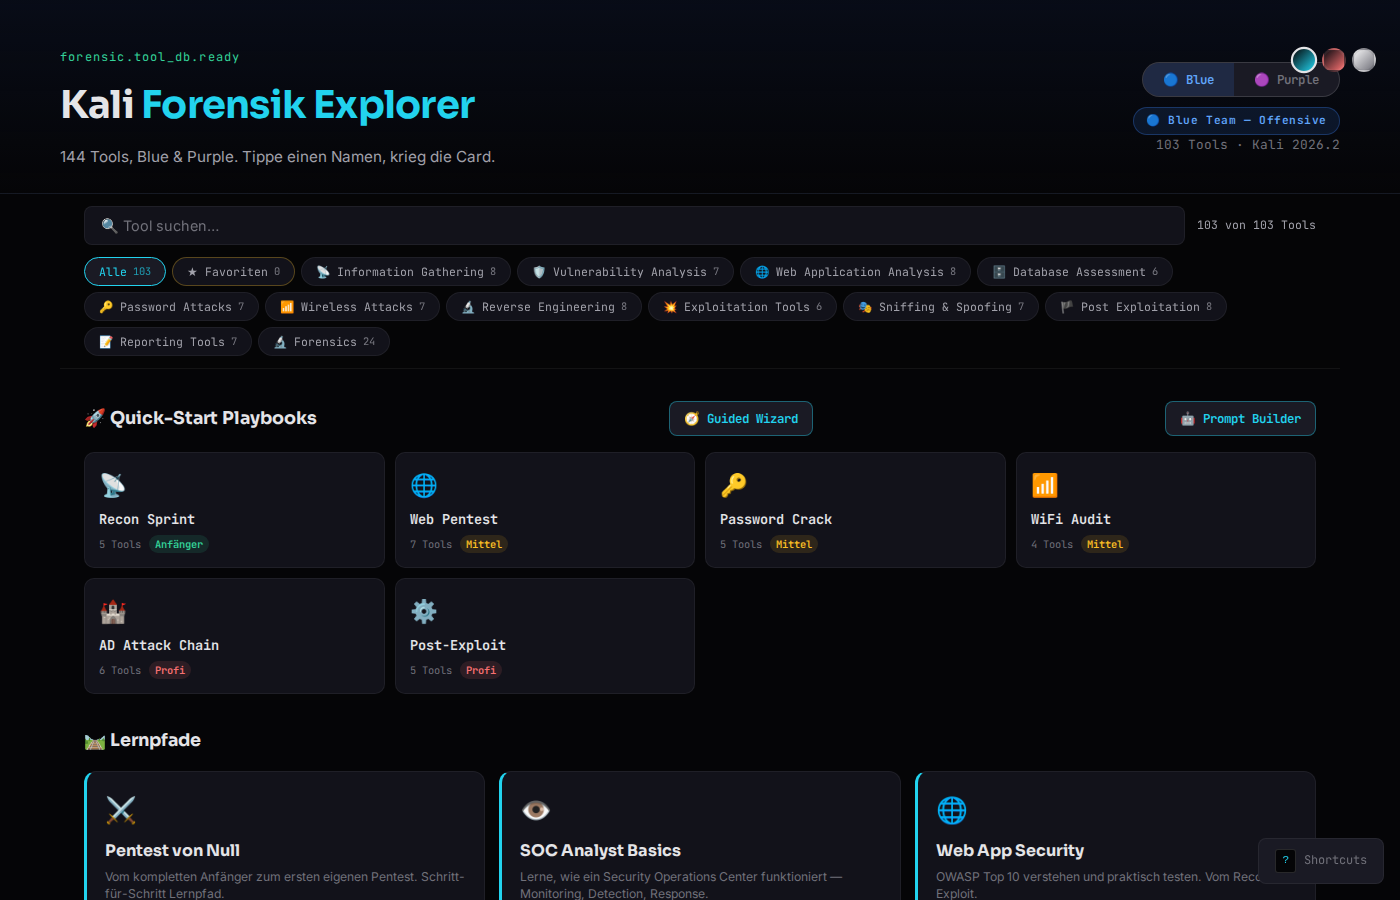
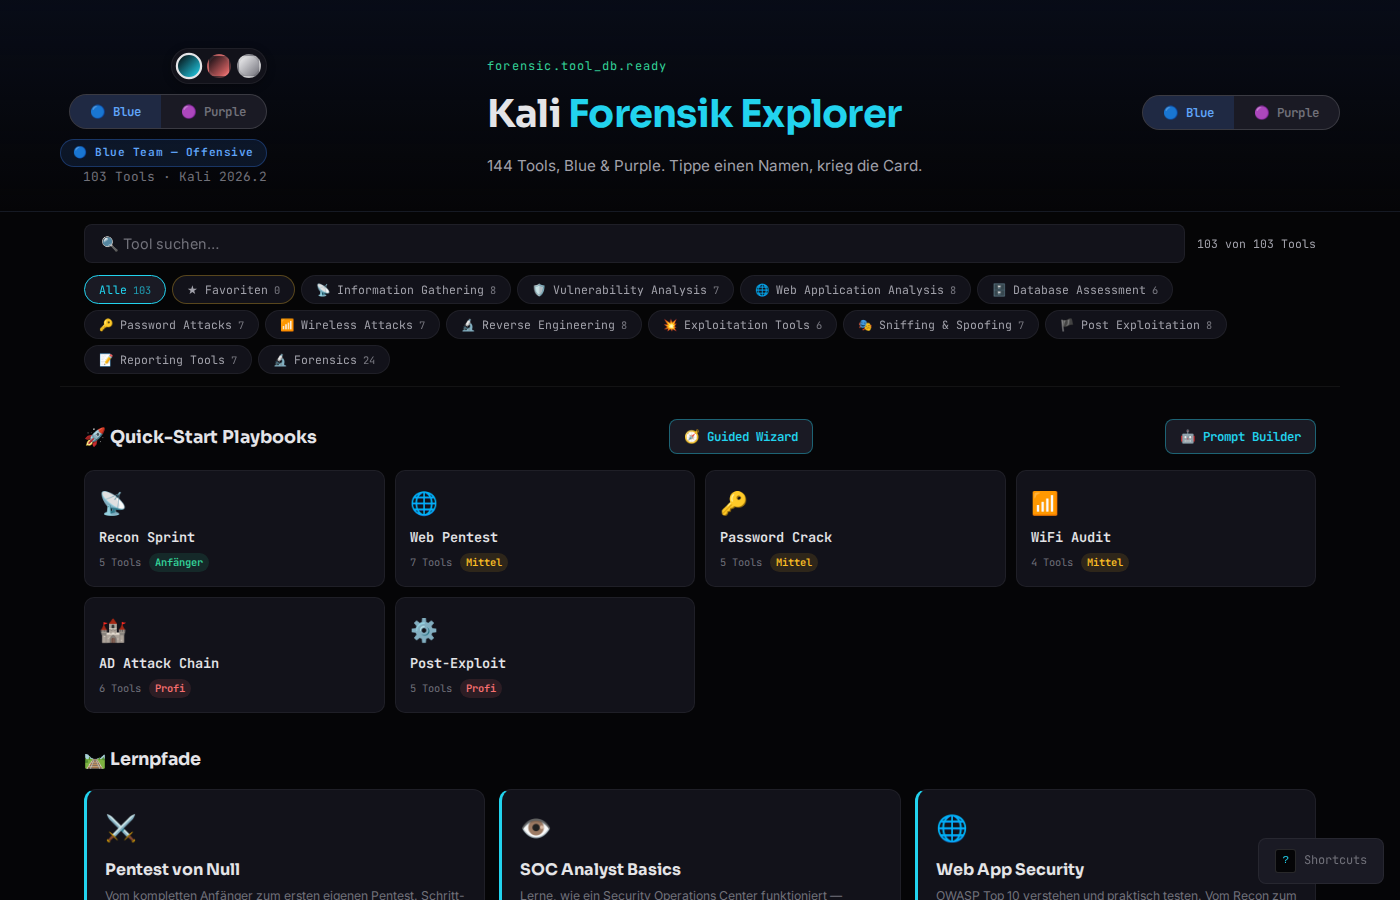
fix(ui): resolve theme-toggle and mode-switch overlap in header
Previously .theme-toggle was position:absolute top:48px right:24px which
overlapped with the .mode-switch in the same corner.

Fix: Moved .theme-toggle into the flex column on the right side, removed
absolute positioning, added visible background pill + shadow for clarity.

Now layout:
- Theme toggle: top-left
- Mode-switch + stats: top-right
- No overlap

diff --git a/forensik-explorer.html b/forensik-explorer.html
@@ -34,6 +34,7 @@
     h1{font-family:var(--font-display);font-size:clamp(1.6rem,4vw,2.4rem);font-weight:700;letter-spacing:-.02em;margin-bottom:8px}
     h1 .accent{color:var(--accent-cyan)}
     .subtitle{color:var(--text-secondary);font-size:.95rem}
+    .header-controls{display:flex;flex-direction:column;align-items:flex-end;gap:10px}
     .header-stats{font-family:var(--font-mono);font-size:.8rem;color:var(--text-muted);text-align:right}
     .filter-bar{position:sticky;top:0;z-index:50;max-width:1280px;margin:0 auto;padding:12px 24px;background:rgba(5,5,7,.92);-webkit-backdrop-filter:blur(20px);backdrop-filter:blur(20px);border-bottom:1px solid var(--border);display:flex;gap:12px;align-items:center;flex-wrap:wrap}
     .filter-search{flex:1;min-width:200px;padding:10px 16px;background:var(--bg-surface);border:1px solid var(--border);border-radius:8px;color:var(--text-primary);font-size:.9rem;font-family:var(--font-body);outline:none;transition:border-color .2s}
@@ -321,7 +322,7 @@
 .cmdbuilder-hint{font-size:.68rem;color:var(--text-muted);font-style:italic}
 
 /* ═══ THEMES ═══ */
-.theme-toggle{position:absolute;top:48px;right:24px;display:flex;gap:6px;z-index:5}
+.theme-toggle{display:flex;gap:6px;background:var(--bg-surface);padding:5px;border-radius:100px;border:1px solid var(--border);box-shadow:0 2px 8px rgba(0,0,0,.3)}
 .theme-btn{width:24px;height:24px;border-radius:50%;border:2px solid var(--border);cursor:pointer;transition:transform .15s,border-color .15s}
 .theme-btn:hover{transform:scale(1.15)}
 .theme-btn.active{border-color:var(--text-primary);transform:scale(1.1)}
@@ -389,10 +390,17 @@
   <div class="reading-progress" id="reading-progress"></div>
   <header class="app-header">
     <div class="header-inner">
-      <div class="theme-toggle" id="theme-toggle">
-        <button class="theme-btn active" data-theme="dark" aria-label="Dark Theme" title="Dark"></button>
-        <button class="theme-btn" data-theme="cyber" aria-label="Cyber Theme" title="Cyber"></button>
-        <button class="theme-btn" data-theme="light" aria-label="Light Theme" title="Light"></button>
+      <div class="header-controls">
+        <div class="theme-toggle" id="theme-toggle">
+          <button class="theme-btn active" data-theme="dark" aria-label="Dark Theme" title="Dark"></button>
+          <button class="theme-btn" data-theme="cyber" aria-label="Cyber Theme" title="Cyber"></button>
+          <button class="theme-btn" data-theme="light" aria-label="Light Theme" title="Light"></button>
+        </div>
+        <div class="mode-switch" id="mode-switch">
+          <button class="mode-btn active blue" data-mode="blue">🔵 Blue</button>
+          <button class="mode-btn purple" data-mode="purple">🟣 Purple</button>
+        </div>
+        <div class="header-stats" id="header-stats"></div>
       </div>
       <div>
         <div class="terminal-prefix">forensic.tool_db.ready</div>
